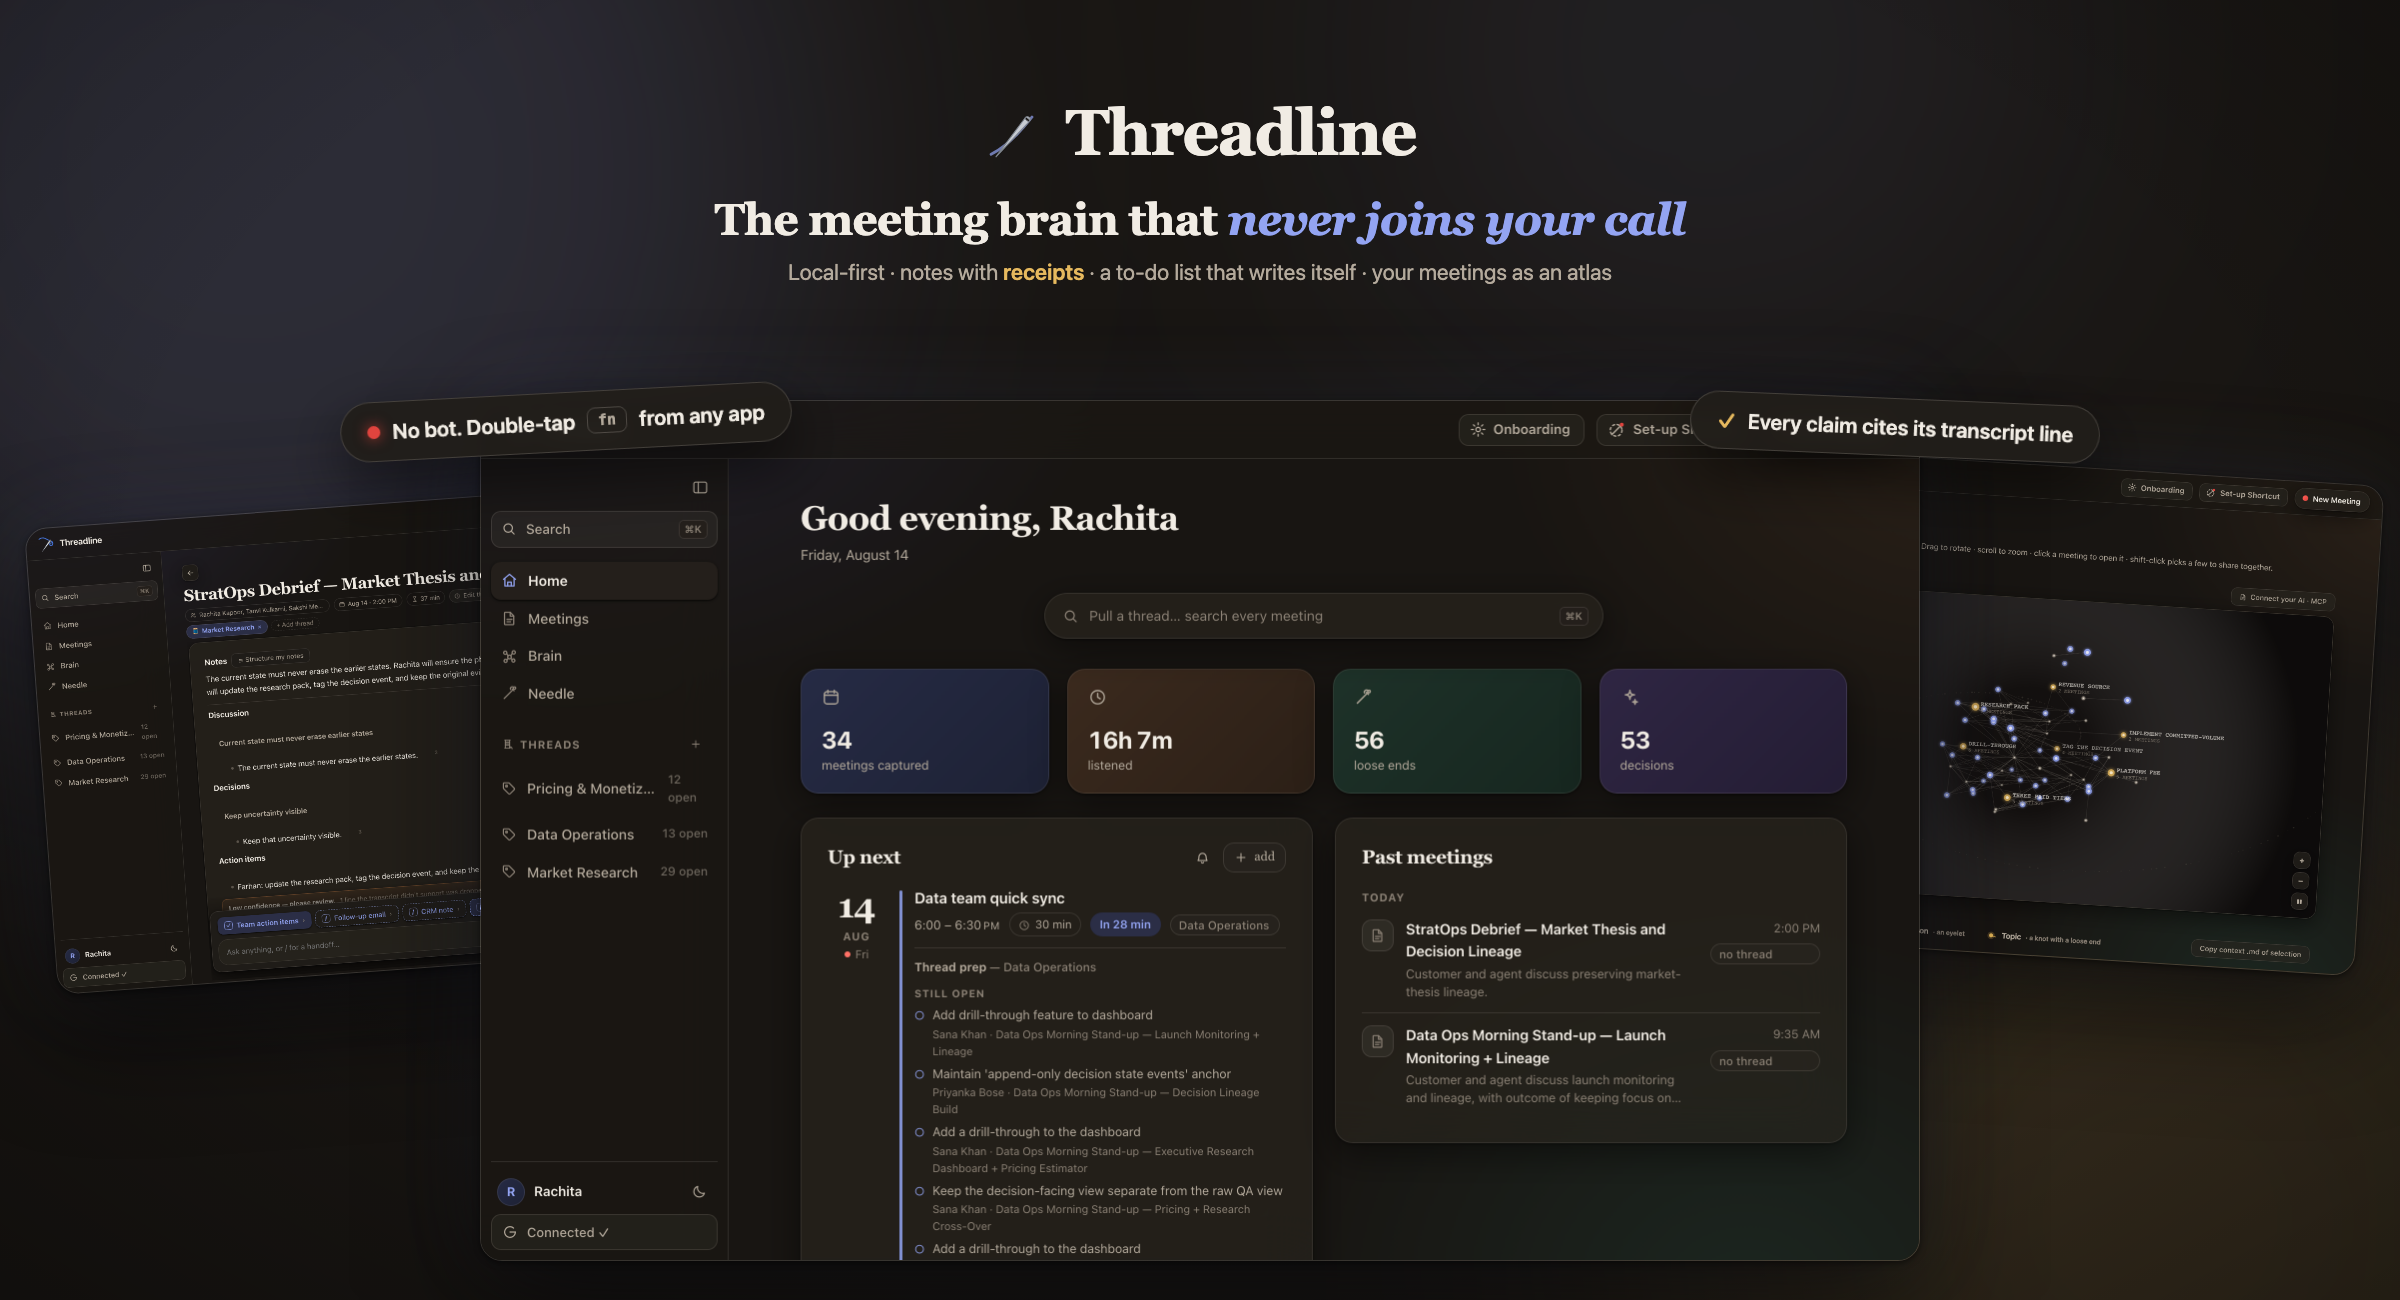
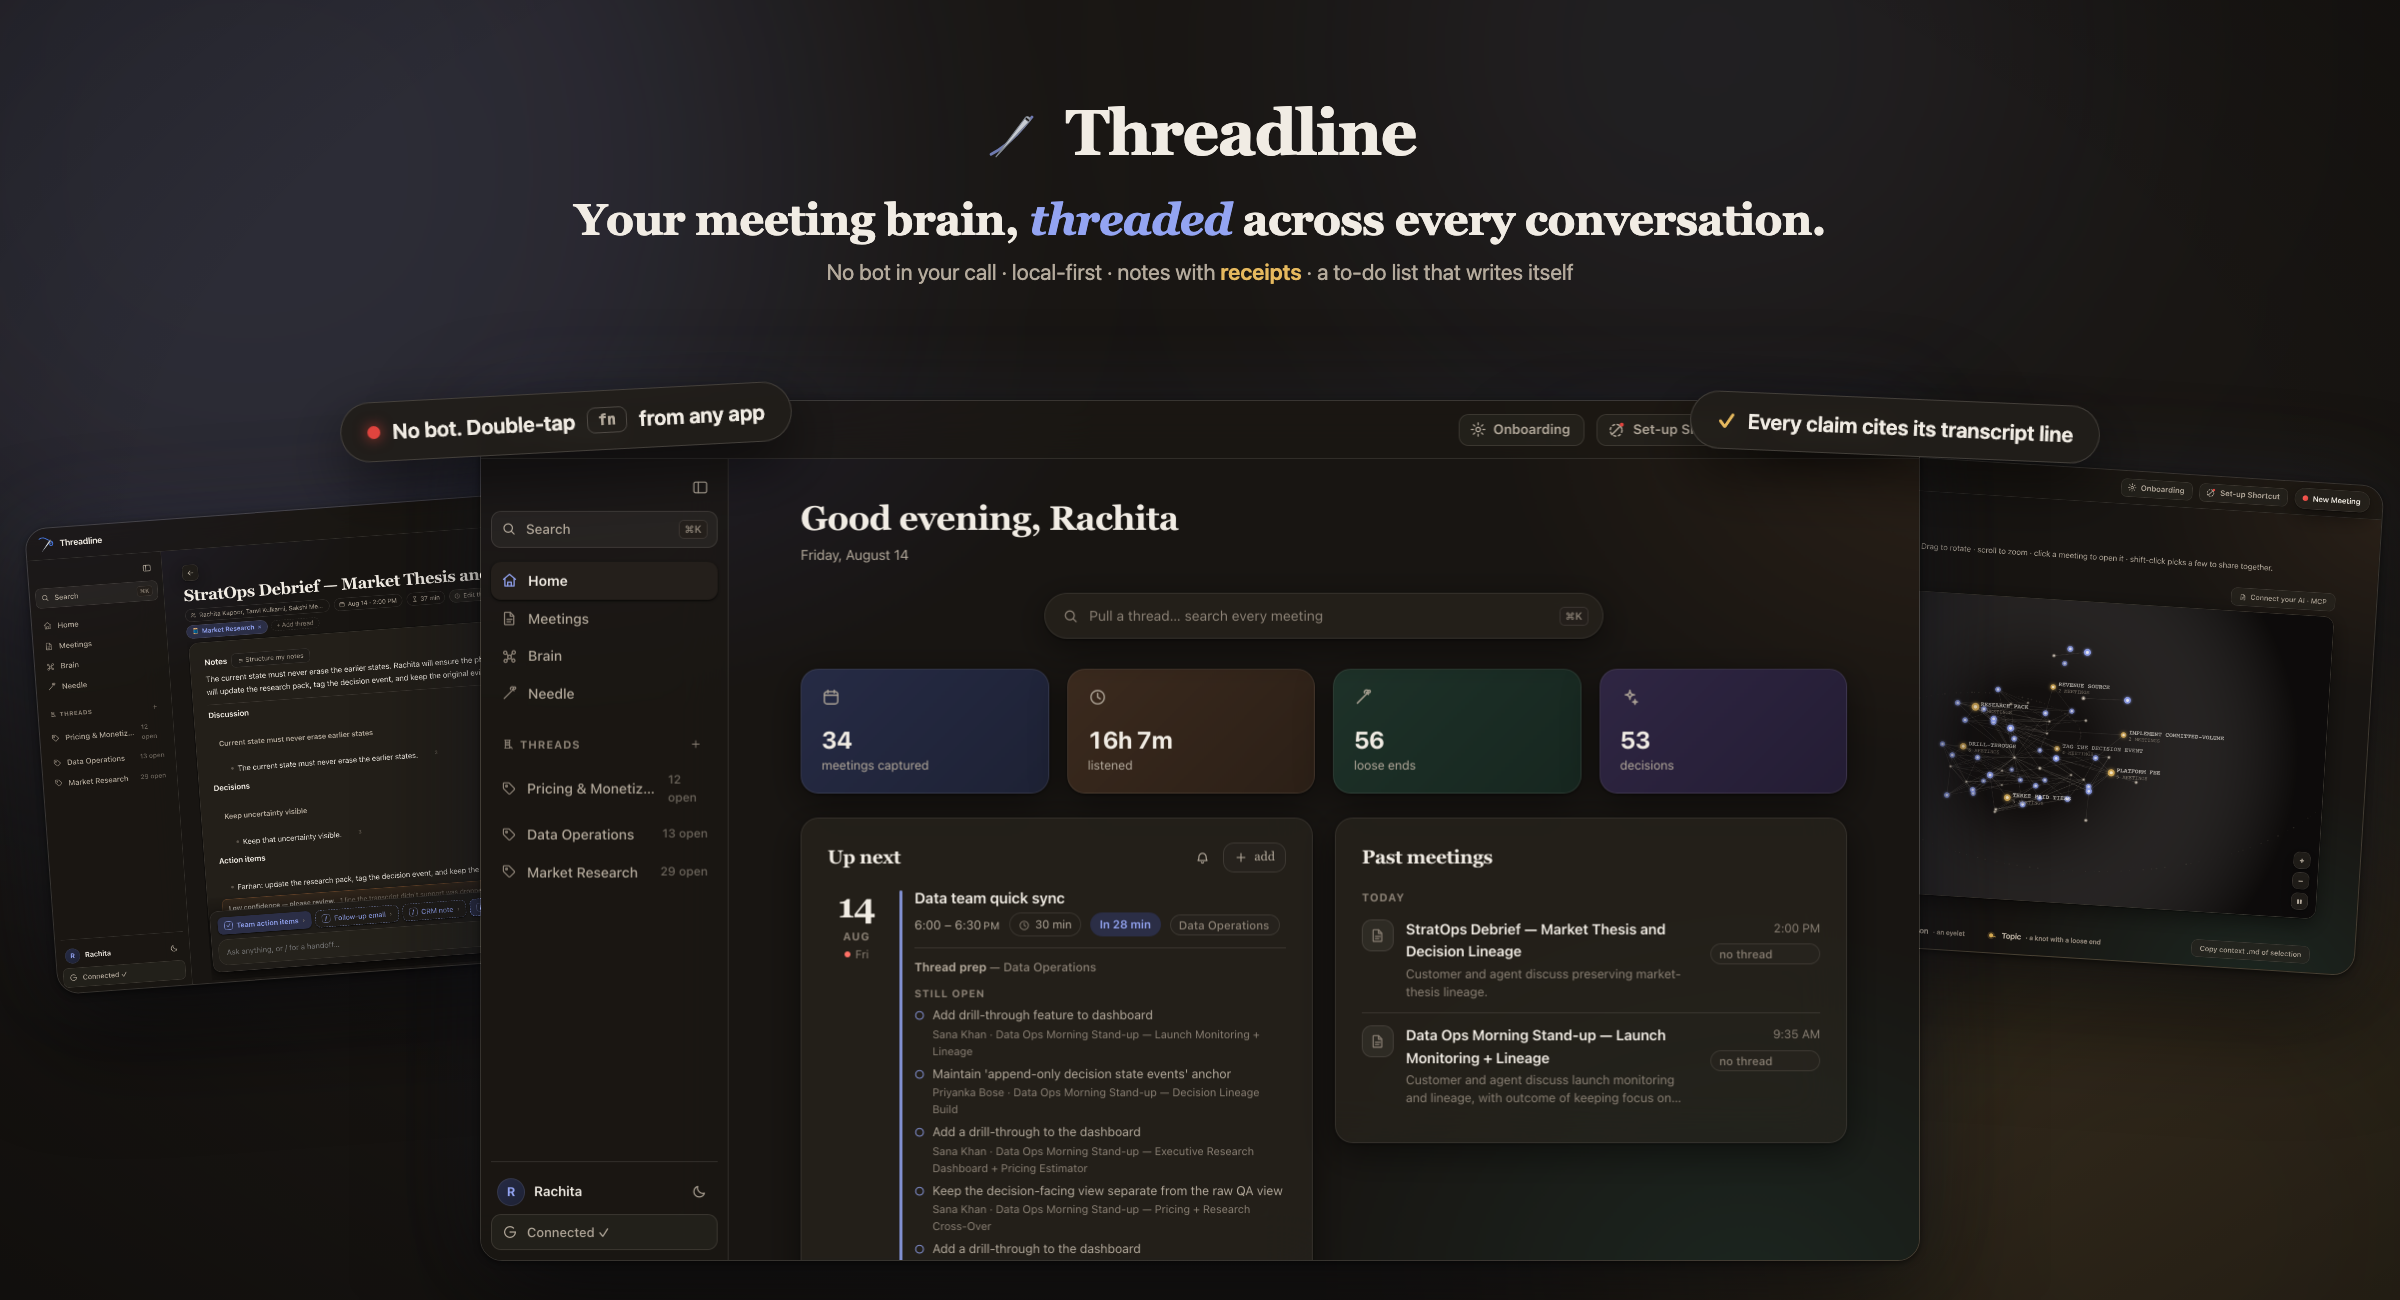
Tagline: your meeting brain, threaded across every conversation

Changed region(s): [[0.2188, 0.1538, 0.75, 0.2154]]

diff --git a/README.md b/README.md
@@ -1,6 +1,6 @@
 # Threadline
 
-![Threadline — the meeting brain that never joins your call](docs/hero.png)
+![Threadline — your meeting brain, threaded across every conversation](docs/hero.png)
 
 **Granola takes notes about your meeting. Threadline takes your side in it.**
 
